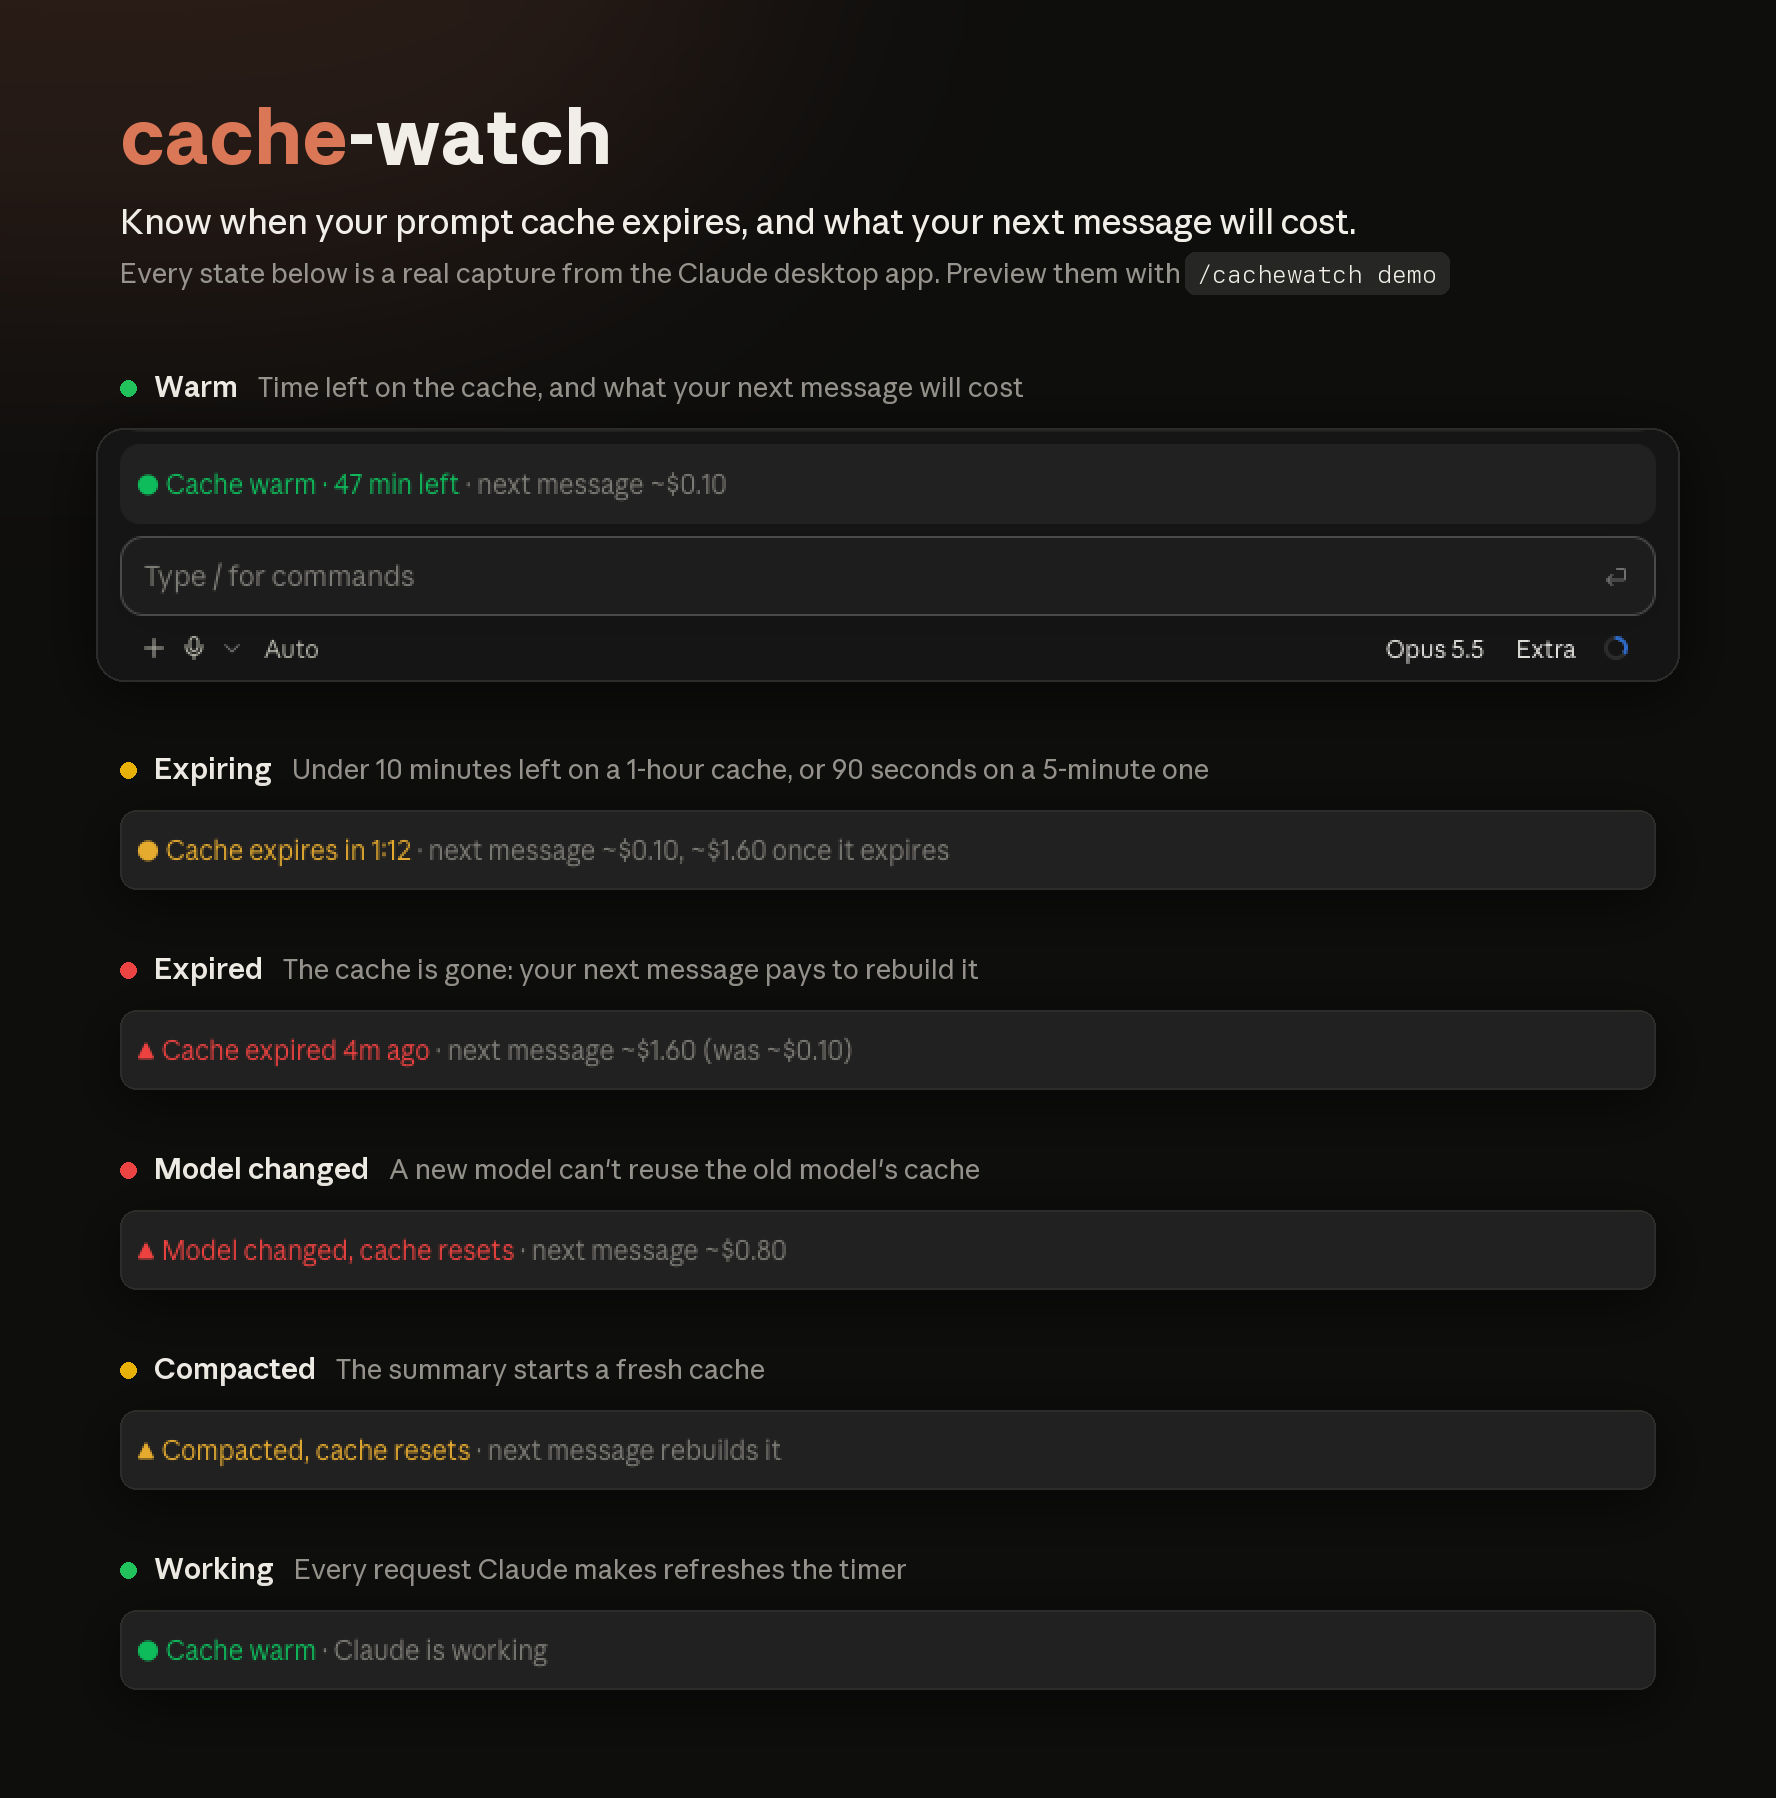
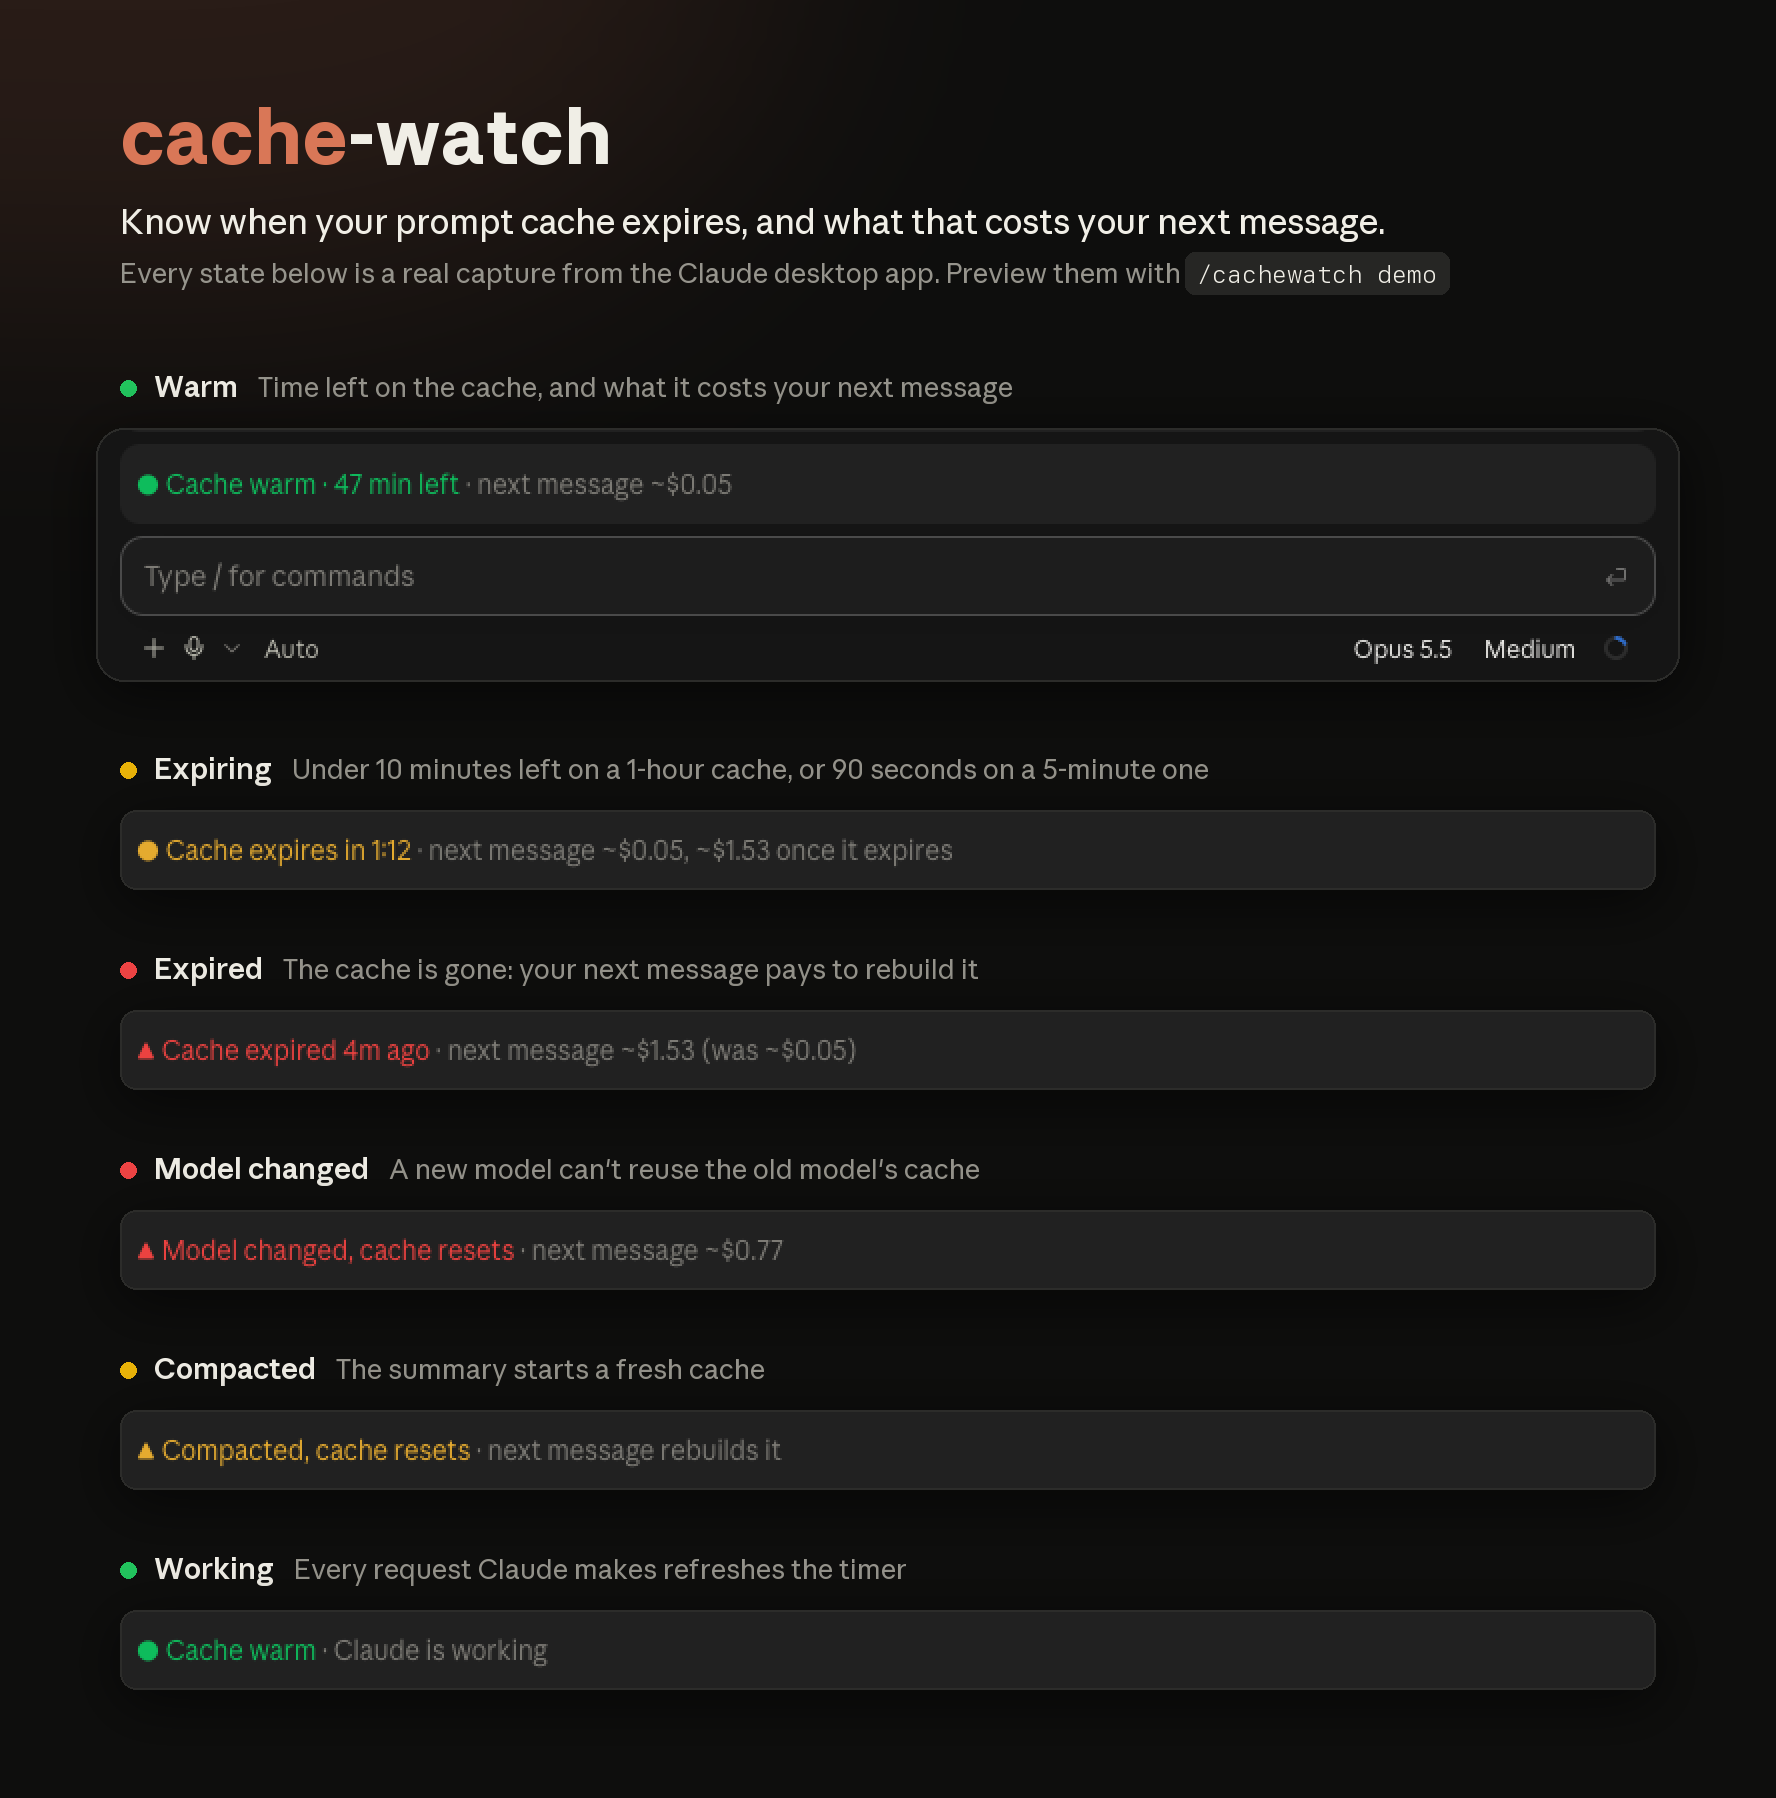
cache-watch: price only the cache reads and writes for the next message
Output costs the same whether the cache is warm or expired, and it depends
on what you ask next, so it only blurred the gap the band exists to show.
Drop the output estimate and output prices, update the demo numbers, docs
and tests, and recapture the header image.

diff --git a/plugin/hooks/register.tsx b/plugin/hooks/register.tsx
@@ -17,22 +17,22 @@ const demoAtom = atom({ plugin: 'cache-watch', key: 'demo' } as const, null)
 // Anthropic first-party API list prices as of 2026-09-25. Bedrock and Vertex price differently.
 // Order matters: longer ids first so 'claude-opus-5-5' wins over 'claude-opus-5'.
 
-type Price = { input: number; output: number; cacheRead: number }
+type Price = { input: number; cacheRead: number }
 
 const PRICES: ReadonlyArray<readonly [string, Price]> = [
-  ['claude-fable-5-1', { input: 10, output: 50, cacheRead: 0.25 }],
-  ['claude-mythos-5-1', { input: 10, output: 50, cacheRead: 0.25 }],
-  ['claude-fable-5', { input: 10, output: 50, cacheRead: 1 }],
-  ['claude-mythos-5', { input: 10, output: 50, cacheRead: 1 }],
-  ['claude-opus-5-5', { input: 4, output: 20, cacheRead: 0.2 }],
-  ['claude-opus-5', { input: 5, output: 25, cacheRead: 0.5 }],
-  ['claude-opus-4-8', { input: 5, output: 25, cacheRead: 0.5 }],
-  ['claude-opus-4-7', { input: 5, output: 25, cacheRead: 0.5 }],
-  ['claude-opus-4-6', { input: 5, output: 25, cacheRead: 0.5 }],
-  ['claude-sonnet-5-5', { input: 2, output: 10, cacheRead: 0.2 }],
-  ['claude-sonnet-5', { input: 2, output: 10, cacheRead: 0.2 }],
-  ['claude-sonnet-4-6', { input: 3, output: 15, cacheRead: 0.3 }],
-  ['claude-haiku-4-5', { input: 1, output: 5, cacheRead: 0.1 }],
+  ['claude-fable-5-1', { input: 10, cacheRead: 0.25 }],
+  ['claude-mythos-5-1', { input: 10, cacheRead: 0.25 }],
+  ['claude-fable-5', { input: 10, cacheRead: 1 }],
+  ['claude-mythos-5', { input: 10, cacheRead: 1 }],
+  ['claude-opus-5-5', { input: 4, cacheRead: 0.2 }],
+  ['claude-opus-5', { input: 5, cacheRead: 0.5 }],
+  ['claude-opus-4-8', { input: 5, cacheRead: 0.5 }],
+  ['claude-opus-4-7', { input: 5, cacheRead: 0.5 }],
+  ['claude-opus-4-6', { input: 5, cacheRead: 0.5 }],
+  ['claude-sonnet-5-5', { input: 2, cacheRead: 0.2 }],
+  ['claude-sonnet-5', { input: 2, cacheRead: 0.2 }],
+  ['claude-sonnet-4-6', { input: 3, cacheRead: 0.3 }],
+  ['claude-haiku-4-5', { input: 1, cacheRead: 0.1 }],
 ]
 
 const FALLBACK_PRICE = PRICES[4][1]
@@ -45,7 +45,7 @@ function priceFor(model: string, isFast: boolean): { price: Price; isKnown: bool
   const k = isFast ? 2 : 1
 
   return {
-    price: { input: base.input * k, output: base.output * k, cacheRead: base.cacheRead * k },
+    price: { input: base.input * k, cacheRead: base.cacheRead * k },
     isKnown: hit !== undefined,
   }
 }
@@ -127,9 +127,6 @@ function parseTranscript(text: string): Parsed {
     else if ((cc?.ephemeral_5m_input_tokens ?? 0) > 0) ttl = '5m'
   }
 
-  const recent = groups.slice(-6).map(g => g.entry.message?.usage?.output_tokens ?? 0)
-  const avgOutput = recent.reduce((a, b) => a + b, 0) / Math.max(1, recent.length)
-
   const u = lastGroup.entry.message?.usage ?? {}
   const lastCc = u.cache_creation
   const ownTtl: CacheTtl | null =
@@ -149,7 +146,6 @@ function parseTranscript(text: string): Parsed {
       cacheRead: u.cache_read_input_tokens ?? 0,
       cacheWrite: u.cache_creation_input_tokens ?? 0,
       output: u.output_tokens ?? 0,
-      avgOutput,
     },
     ttl,
     isCompactedAfter,
@@ -196,7 +192,7 @@ function shortModel(model: string): string {
 
 // ── cost model ───────────────────────────────────────────────────────────────
 
-type Estimate = { warm: number; cold: number; out: number; context: number; isPriceKnown: boolean }
+type Estimate = { warm: number; cold: number; context: number; isPriceKnown: boolean }
 
 function estimate(snap: CacheSnap, ttl: CacheTtl, draftChars: number, model = snap.model): Estimate {
   const { price, isKnown } = priceFor(model, snap.isFast)
@@ -209,7 +205,6 @@ function estimate(snap: CacheSnap, ttl: CacheTtl, draftChars: number, model = sn
   return {
     warm: (prefix * price.cacheRead) / 1e6 + tail * write,
     cold: (prefix + tail) * write,
-    out: (snap.avgOutput * price.output) / 1e6,
     context: prefix + tail,
     isPriceKnown: isKnown,
   }
@@ -279,14 +274,14 @@ const RED = '#ef4444'
 function liveView(snap: CacheSnap, ttl: CacheTtl, breaker: CacheBreaker | null, tick: CacheTick, isWorking: boolean): View {
   const left = snap.startedAt + TTL_MS[ttl] - tick.now
   const est = estimate(snap, ttl, tick.draftChars)
-  const warmCost = `~${fmtUsd(est.warm + est.out)}`
-  const coldCost = `~${fmtUsd(est.cold + est.out)}`
+  const warmCost = `~${fmtUsd(est.warm)}`
+  const coldCost = `~${fmtUsd(est.cold)}`
 
   if (isWorking) return { color: GREEN, status: '● Cache warm', cost: 'Claude is working' }
   if (breaker?.kind === 'model') {
     const switched = estimate(snap, ttl, tick.draftChars, breaker.toModel)
 
-    return { color: RED, status: '▲ Model changed, cache resets', cost: `next message ~${fmtUsd(switched.cold + switched.out)}` }
+    return { color: RED, status: '▲ Model changed, cache resets', cost: `next message ~${fmtUsd(switched.cold)}` }
   }
   if (breaker?.kind === 'compact') return { color: YELLOW, status: '▲ Compacted, cache resets', cost: 'next message rebuilds it' }
   if (left <= 0) return { color: RED, status: `▲ Cache expired ${fmtAgo(-left)}`, cost: `next message ${coldCost} (was ${warmCost})` }
@@ -299,10 +294,10 @@ function liveView(snap: CacheSnap, ttl: CacheTtl, breaker: CacheBreaker | null, 
 
 // Every state the band can be in, with typical numbers (Opus 5.5, ~190k tokens of context).
 const DEMO: Record<CacheDemo, View> = {
-  warm: { color: GREEN, status: '● Cache warm · 47 min left', cost: 'next message ~$0.10' },
-  expiring: { color: YELLOW, status: '● Cache expires in 1:12', cost: 'next message ~$0.10, ~$1.60 once it expires' },
-  expired: { color: RED, status: '▲ Cache expired 4m ago', cost: 'next message ~$1.60 (was ~$0.10)' },
-  model: { color: RED, status: '▲ Model changed, cache resets', cost: 'next message ~$0.80' },
+  warm: { color: GREEN, status: '● Cache warm · 47 min left', cost: 'next message ~$0.05' },
+  expiring: { color: YELLOW, status: '● Cache expires in 1:12', cost: 'next message ~$0.05, ~$1.53 once it expires' },
+  expired: { color: RED, status: '▲ Cache expired 4m ago', cost: 'next message ~$1.53 (was ~$0.05)' },
+  model: { color: RED, status: '▲ Model changed, cache resets', cost: 'next message ~$0.77' },
   compacted: { color: YELLOW, status: '▲ Compacted, cache resets', cost: 'next message rebuilds it' },
   working: { color: GREEN, status: '● Cache warm', cost: 'Claude is working' },
 }

diff --git a/plugin/tests/band.test.ts b/plugin/tests/band.test.ts
@@ -18,10 +18,10 @@ const props = {
 }
 
 const STATES: Array<[string, string]> = [
-  ['warm', 'Cache warm · 47 min left · next message ~$0.10'],
-  ['expiring', 'Cache expires in 1:12 · next message ~$0.10, ~$1.60 once it expires'],
-  ['expired', 'Cache expired 4m ago · next message ~$1.60 (was ~$0.10)'],
-  ['model', 'Model changed, cache resets · next message ~$0.80'],
+  ['warm', 'Cache warm · 47 min left · next message ~$0.05'],
+  ['expiring', 'Cache expires in 1:12 · next message ~$0.05, ~$1.53 once it expires'],
+  ['expired', 'Cache expired 4m ago · next message ~$1.53 (was ~$0.05)'],
+  ['model', 'Model changed, cache resets · next message ~$0.77'],
   ['compacted', 'Compacted, cache resets · next message rebuilds it'],
   ['working', 'Cache warm · Claude is working'],
 ]
@@ -96,13 +96,13 @@ test('reads the TTL from the transcript, counts down from the request start, and
 
   // Warm: the hour runs from when the request started, not when the reply landed.
   await clock.set(t0 + 13 * 60_000)
-  expect(await band()).toContain('Cache warm · 47 min left · next message ~$0.07')
+  expect(await band()).toContain('Cache warm · 47 min left · next message ~$0.05')
 
   // Ten minutes out, it warns, with what waiting would cost.
   await clock.set(t0 + 52 * 60_000)
-  expect(await band()).toContain('Cache expires in 8:00 · next message ~$0.07, ~$1.56 once it expires')
+  expect(await band()).toContain('Cache expires in 8:00 · next message ~$0.05, ~$1.54 once it expires')
 
   // Past the hour, the whole context is written again.
   await clock.set(t0 + 64 * 60_000)
-  expect(await band()).toContain('Cache expired 4m ago · next message ~$1.56 (was ~$0.07)')
+  expect(await band()).toContain('Cache expired 4m ago · next message ~$1.54 (was ~$0.05)')
 })

diff --git a/plugin/types/index.d.ts b/plugin/types/index.d.ts
@@ -12,8 +12,6 @@ export type CacheSnap = {
   cacheRead: number
   cacheWrite: number
   output: number
-  /** Mean output tokens over the last few main-thread requests. */
-  avgOutput: number
 }
 
 export type CacheBreaker = { kind: 'model' | 'compact'; detail: string; toModel?: string }

diff --git a/media/compose.py b/media/compose.py
@@ -29,7 +29,7 @@ STATE = {
     'red': (239, 68, 68),
 }
 
-HERO = ('warm', 'green', 'Warm', 'Time left on the cache, and what your next message will cost')
+HERO = ('warm', 'green', 'Warm', 'Time left on the cache, and what it costs your next message')
 STRIPS = [
     ('expiring', 'yellow', 'Expiring', 'Under 10 minutes left on a 1-hour cache, or 90 seconds on a 5-minute one'),
     ('expired', 'red', 'Expired', 'The cache is gone: your next message pays to rebuild it'),
@@ -121,7 +121,7 @@ f_mark = font(38, 700)
 draw.text((TX, y), 'cache', font=f_mark, fill=ORANGE)
 draw.text((TX + draw.textlength('cache', font=f_mark), y), '-watch', font=f_mark, fill=TEXT)
 y += 56 * S
-draw.text((TX, y), 'Know when your prompt cache expires, and what your next message will cost.',
+draw.text((TX, y), 'Know when your prompt cache expires, and what that costs your next message.',
           font=font(17, 450), fill=TEXT)
 y += 28 * S
 f_note = font(13.5)

diff --git a/README.md b/README.md
@@ -4,7 +4,7 @@
 
 # cache-watch
 
-**Know when your Claude Code prompt cache expires, and what your next message will cost.**
+**Know when your Claude Code prompt cache expires, and what that costs your next message.**
 
 Claude Code caches your conversation so each message pays full price only for what's new. The cache expires 5 minutes or 1 hour after its last use, depending on your account. After that, your next message rewrites the whole conversation, which can cost about 15× more late in a long session. cache-watch adds a one-line band above the prompt that counts down to that moment.
 
@@ -12,7 +12,7 @@ Claude Code caches your conversation so each message pays full price only for wh
 
 - **Live countdown** to the cache expiring, in the terminal and the desktop app
 - **Your account's real TTL**, read from the API's own responses rather than guessed
-- **Next-message cost**, and what it will be once the cache expires
+- **Next-message cache cost**, and what it will be once the cache expires
 - **Warnings** for anything that resets the cache: expiry, switching models, `/compact`
 
 ## Requirements
@@ -50,7 +50,7 @@ The band needs no setup. It changes with the cache:
 
 | State | Shown when |
 | --- | --- |
-| 🟢 **Warm** | The cache is live. Shows the time left and the next message's cost |
+| 🟢 **Warm** | The cache is live. Shows the time left and the next message's cache cost |
 | 🟡 **Expiring** | Under 10 min left on a 1-hour cache, or 90 s on a 5-minute one |
 | 🔴 **Expired** | The cache is gone, so the next message rewrites it |
 | 🔴 **Model changed** | A different model can't reuse the old cache |
@@ -69,19 +69,19 @@ The band needs no setup. It changes with the cache:
 
 - **TTL:** each API response records its cache writes split by lifetime (`ephemeral_1h_input_tokens` / `ephemeral_5m_input_tokens`). Claude Code saves those responses to the session transcript, and cache-watch reads the newest one after every turn.
 - **Countdown:** the cache's lifetime runs from the *start* of the request that last used it, so the timer starts there too.
-- **Cost:** a warm message pays a cache read on the existing context, plus a cache write on the new part. That write is 1.25× the input price for a 5-minute cache and 2× for 1 hour. An expired cache means the whole context is written again. Output is estimated from your recent replies.
+- **Cost:** a warm message pays a cache read on the existing context, plus a cache write on the new part. That write is 1.25× the input price for a 5-minute cache and 2× for 1 hour. An expired cache means the whole context is written again. Output isn't included: it costs the same whether the cache is warm or not, and depends on what you ask.
 
 <details>
 <summary>Prices used (per million tokens, Anthropic API list prices, September 2026)</summary>
 
-| Model | Input | Output | Cache read |
-| --- | --- | --- | --- |
-| Fable 5.1 | $10 | $50 | $0.25 |
-| Opus 5.5 | $4 | $20 | $0.20 |
-| Opus 5 · 4.8 · 4.7 · 4.6 | $5 | $25 | $0.50 |
-| Sonnet 5.5 · 5 | $2 | $10 | $0.20 |
-| Sonnet 4.6 | $3 | $15 | $0.30 |
-| Haiku 4.5 | $1 | $5 | $0.10 |
+| Model | Input | Cache read |
+| --- | --- | --- |
+| Fable 5.1 | $10 | $0.25 |
+| Opus 5.5 | $4 | $0.20 |
+| Opus 5 · 4.8 · 4.7 · 4.6 | $5 | $0.50 |
+| Sonnet 5.5 · 5 | $2 | $0.20 |
+| Sonnet 4.6 | $3 | $0.30 |
+| Haiku 4.5 | $1 | $0.10 |
 
 Fast mode is billed at 2×. Prices live in `PRICES` in [`plugin/hooks/register.tsx`](./plugin/hooks/register.tsx).
 
